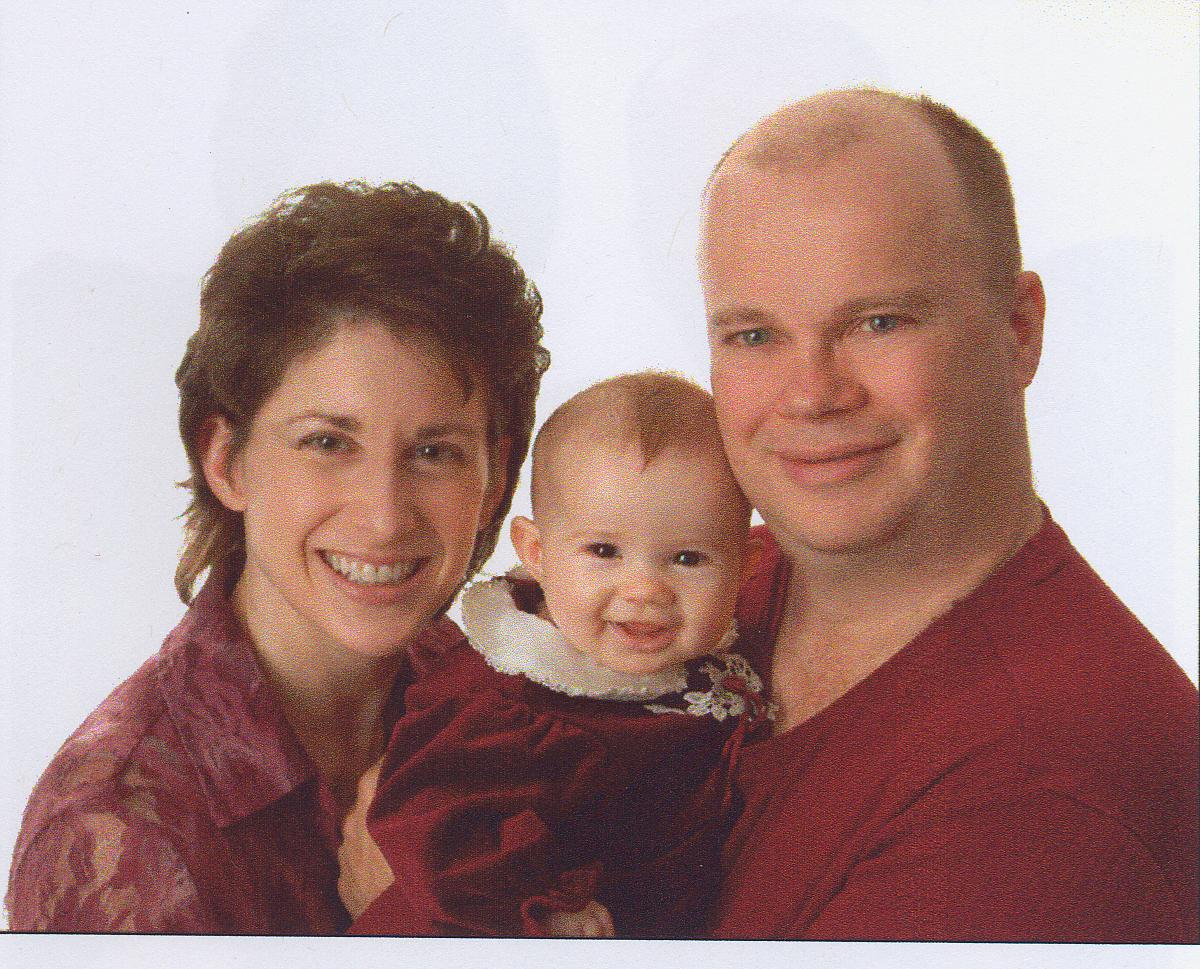
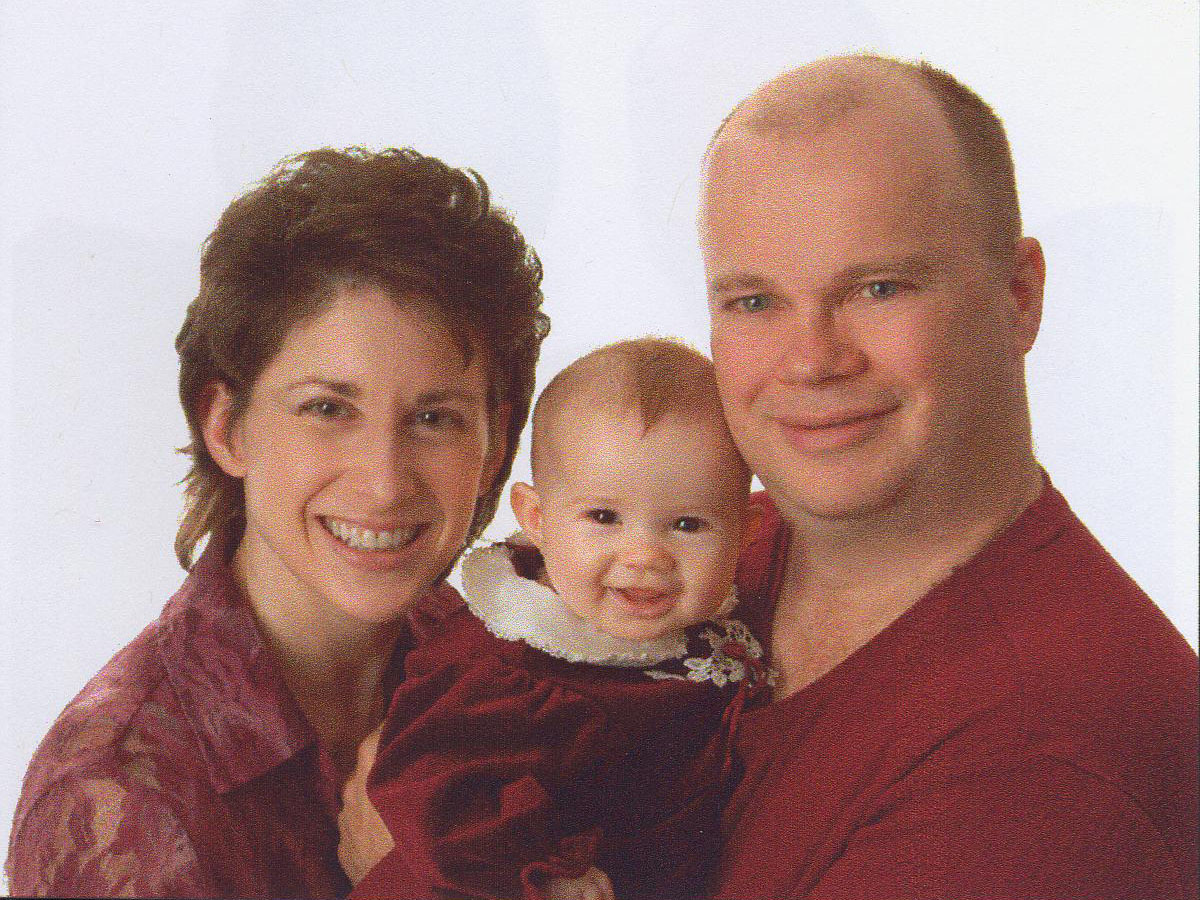
xs screen size works

diff --git a/index.html b/index.html
@@ -31,38 +31,39 @@
             </div>
         </header>
         <section class="hero">
-            <img class="hero" src="img/htmlcode.jpg" alt="image of html snippet">
+            <img class="hero" src="img/htmlcode-800.jpg" alt="image of html snippet">
         </section>
         <section id="featured">
             <h2>Featured Work</h2>
             <div class="row">
-                <article class="col-xs-12 col-sm-4">
-                    <p>Image</p>
+                <article class="col-xs-12 col-sm-4 ">
+                    <img class="img_responsive" src="img/biker-800.jpg" alt="Harley and Rider"
+                         srcset="img/biker-400.jpg 1x, img/biker-800.jpg 2x"
+                         sizes="(max-width: 400px) 100vw, (min-width: 401px) 33vw">
                 </article>
-                <article class="col-xs-12 col-sm-4">
-                    <p>Image</p>
+                <article class="col-xs-12 col-sm-4 ">
+                    <img class="img_responsive" src="img/family01-800.jpg" alt="Mom, Dad, and Baby Rachel"
+                         srcset="img/family01-400.jpg 1x, img/family01-800.jpg 2x"
+                         sizes="(max-width: 400px) 100vw, (min-width: 401px) 33vw">
                 </article>
-                <article class="col-xs-12 col-sm-4">
-                    <p>Image</p>
+                <article class="col-xs-12 col-sm-4 ">
+                    <img class="img_responsive" src="img/family01-800.jpg" alt="Mom, Dad, and Baby Rachel"
+                         srcset="img/family01-400.jpg 1x, img/family01-800.jpg 2x"
+                         sizes="(max-width: 400px) 100vw, (min-width: 401px) 33vw">
                 </article>
-                <article class="col-xs-12 col-sm-4">
-                    <p>Image</p>
+                <article class="col-xs-12 col-sm-4 ">
+                    <img class="img_responsive" src="img/jennings_clan-800.jpg." alt="Jennigs clan at wedding"
+                         srcset="img/jennings_clan-400.jpg 1x, img/jennings_clan-800.jpg 2x"
+                         sizes="(max-width: 400px) 100vw, (min-width: 401px) 33vw">
                 </article>
-                <article class="col-xs-12 col-sm-4">
-                    <p>Image</p>
-                </article>
-                <article class="col-xs-12 col-sm-4">
-                    <p>Image</p>
+                <article class="col-xs-12 col-sm-4 ">
+                    <img class="img_responsive" src="img/MomxRachel-800.jpg" alt="Nana Gertrude & Rachel, 1st meeting"
+                         srcset="img/MomxRachel-400.jpg 1x, img/MomxRachel-800.jpg 2x"
+                         sizes="(max-width: 400px) 100vw, (min-width: 401px) 33vw">
                 </article>
             </div>
         </section>
     </div>
-
-    <!--       <div class="jumbotron">
-               <img src="img/htmlcode.jpg">
-           </div>
-   -->
-
 </main>
 </body>
 </html>

diff --git a/Gruntfile.js b/Gruntfile.js
@@ -41,14 +41,23 @@ module.exports = function (grunt) {
             }
         },
 
+        /* The following plugins perform the image optimization.
+         * /temp/img is used as a temporary working directory, and is created and subsequently destroyed
+         * after optimization is complete.  The optimizied files are placed in the /img directory.
+         */
         responsive_images: {
             dev: {
                 options: {
                     engine: 'im',
-                    sizes: [{
-                        width: '800',
-                        quality: '80'
-                    },
+                    sizes: [
+                        {
+                            width: '1600',
+                            quality: '80'
+                        },
+                        {
+                            width: '800',
+                            quality: '80'
+                        },
                         {
                             width: '400',
                             quality: '80'

diff --git a/css/styles.css b/css/styles.css
@@ -36,6 +36,13 @@
 img.hero {
     max-width : 100%;
 }
+
+/*.featured {
+    margin: 10px auto 10px;
+    width: 33%;
+    max-width: 100%;
+}*/
+
 /* Bootstrap xs breakpoint */
 @media (max-width: 767px) {
 
@@ -50,6 +57,15 @@ img.hero {
 
     .header-name {
         margin-top: 10px;
+    }
+
+    #featured article {
+        margin: 10px auto;
+    }
+
+    #featured img {
+        width: 100%;
+      /*  margin: 0 auto;*/
     }
 }
 
@@ -69,8 +85,10 @@ img.hero {
     }
 }
 
+
 /*.header {*/
     /*border-bottom-style: solid;*/
     /*border-bottom-color: #7d97ad;*/
     /*border-bottom-width: 2px;*/
 /*}*/
+
